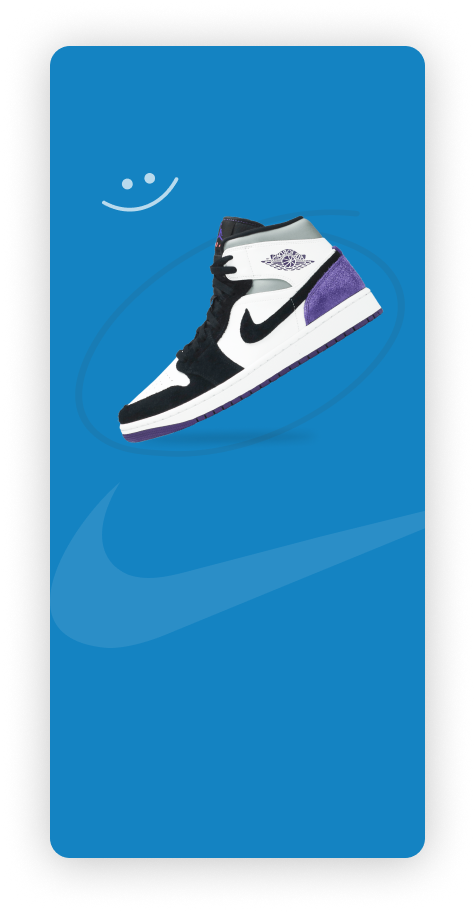
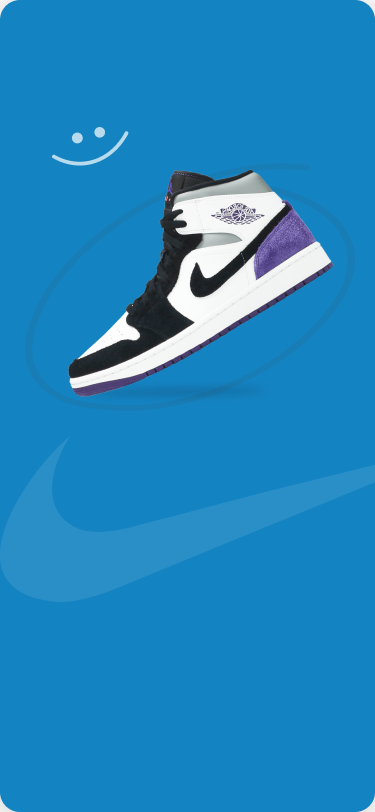
on Boarding screen 3 completed and add them to App Router

diff --git a/lib/app/views/screens/onBoarding_Screens/widgets/OnBoarding_Screen3Body copy.dart b/lib/app/views/screens/onBoarding_Screens/widgets/OnBoarding_Screen3Body copy.dart
@@ -4,8 +4,8 @@ import 'package:nike_store_app/app/core/styles/App_Image.dart';
 import 'package:nike_store_app/app/core/styles/text_Style.dart';
 import 'package:nike_store_app/app/views/widgets/customMainButton.dart';
 
-class OnBoardingScreen2Body extends StatelessWidget {
-  const OnBoardingScreen2Body({Key? key}) : super(key: key);
+class OnBoardingScreen3Body extends StatelessWidget {
+  const OnBoardingScreen3Body({Key? key}) : super(key: key);
 
   @override
   Widget build(BuildContext context) {
@@ -13,7 +13,7 @@ class OnBoardingScreen2Body extends StatelessWidget {
       child: Stack(
         children: [
           Image.asset(
-            AppImages.imagesOnboard2,
+            AppImages.imagesOnboard3,
             fit: BoxFit.cover,
           ),
           Positioned(
@@ -21,7 +21,7 @@ class OnBoardingScreen2Body extends StatelessWidget {
             left: 45.w,
             child: SizedBox(
               width: 300.w,
-              child: Text("Let's Start Journey With Nike",
+              child: Text("You Have the Power To",
                   textAlign: TextAlign.center,
                   style: Txtstyle.style34(context: context)
                       .copyWith(fontWeight: FontWeight.bold)),
@@ -31,8 +31,9 @@ class OnBoardingScreen2Body extends StatelessWidget {
             bottom: 230.h,
             left: 45.w,
             child: SizedBox(
-              width: 300.w,
-              child: Text("Smart, Gorgeous & Fashionable Collection Explor Now",
+              width: 350.w,
+              child: Text(
+                  "There Are Many Beautiful And Attractive Plants To Your Room",
                   textAlign: TextAlign.center,
                   style: Txtstyle.style16(context: context)
                       .copyWith(color: Colors.white.withOpacity(0.7))),

diff --git a/lib/app/router/app_router.dart b/lib/app/router/app_router.dart
@@ -1,14 +1,36 @@
+import 'package:flutter/material.dart';
 import 'package:go_router/go_router.dart';
+import 'package:nike_store_app/app/views/screens/onBoarding_Screens/onBoarding_Screen1.dart';
+import 'package:nike_store_app/app/views/screens/onBoarding_Screens/onBoarding_Screen2.dart';
+import 'package:nike_store_app/app/views/screens/onBoarding_Screens/onBoarding_Screen3%20copy.dart';
 import '../views/widgets/DotcontrollerOnBoarding.dart';
 
 abstract class Approuter {
-  static const onboarding = "/";
+  static const pageview = "/";
+  static const onboarding1 = "/onboarding1";
+  static const onboarding2 = "/onboarding2";
+  static const onboarding3 = "/onboarding3";
 
   static final router = GoRouter(
     routes: [
       GoRoute(
-        path: '/',
+        path: pageview,
         builder: (context, state) => DotcontrollerOnBoarding(),
+      ),
+      GoRoute(
+        path: onboarding1,
+        builder: (context, state) =>
+            OnBoardingScreen1(controller: state.extra as PageController),
+      ),
+      GoRoute(
+        path: onboarding2,
+        builder: (context, state) =>
+            OnBoardingScreen2(controller: state.extra as PageController),
+      ),
+      GoRoute(
+        path: onboarding3,
+        builder: (context, state) =>
+            OnBoardingScreen3(controller: state.extra as PageController),
       ),
     ],
   );

diff --git a/lib/app/views/widgets/DotcontrollerOnBoarding.dart b/lib/app/views/widgets/DotcontrollerOnBoarding.dart
@@ -5,6 +5,7 @@ import 'package:nike_store_app/app/views/screens/onBoarding_Screens/onBoarding_S
 import 'package:smooth_page_indicator/smooth_page_indicator.dart';
 
 import '../screens/onBoarding_Screens/onBoarding_Screen2.dart';
+import '../screens/onBoarding_Screens/onBoarding_Screen3 copy.dart';
 
 class DotcontrollerOnBoarding extends StatelessWidget {
   DotcontrollerOnBoarding({super.key});
@@ -21,9 +22,9 @@ class DotcontrollerOnBoarding extends StatelessWidget {
                 child: PageView(
                   controller: controller,
                   children: [
-                    OnBoardingScreen2(controller: controller),
                     OnBoardingScreen1(controller: controller),
-                    OnBoardingScreen1(controller: controller)
+                    OnBoardingScreen2(controller: controller),
+                    OnBoardingScreen3(controller: controller)
                   ],
                 ),
               ),

diff --git a/lib/app/views/screens/onBoarding_Screens/widgets/OnBoarding_Screen1Body.dart b/lib/app/views/screens/onBoarding_Screens/widgets/OnBoarding_Screen1Body.dart
@@ -17,8 +17,8 @@ class OnBoardingScreen1Body extends StatelessWidget {
             fit: BoxFit.cover,
           ),
           Positioned(
-            bottom: 655.h,
-            left: 77.w,
+            bottom: 645.h,
+            left: 70.w,
             child: SizedBox(
               width: 220.w,
               child: Text("WELLCOM TO NIKE",
@@ -28,7 +28,7 @@ class OnBoardingScreen1Body extends StatelessWidget {
             ),
           ),
           Positioned(
-              left: 10.w,
+              left: 18.w,
               bottom: 60.h,
               child: CustomMainButton(
                 color: Colors.white,

diff --git a/lib/app/views/screens/onBoarding_Screens/onBoarding_Screen3 copy.dart b/lib/app/views/screens/onBoarding_Screens/onBoarding_Screen3 copy.dart
@@ -1,0 +1,18 @@
+import 'package:flutter/material.dart';
+import 'package:nike_store_app/app/core/styles/App_Colors.dart';
+import 'widgets/OnBoarding_Screen3Body copy.dart';
+
+// ignore: camel_case_types
+class OnBoardingScreen3 extends StatelessWidget {
+  const OnBoardingScreen3({
+    super.key,
+    required this.controller,
+  });
+  final PageController controller;
+  @override
+  Widget build(BuildContext context) {
+    return const Scaffold(
+        backgroundColor: AppColors.kSecondaryColor,
+        body: OnBoardingScreen3Body());
+  }
+}

diff --git a/lib/app/views/widgets/customMainButton.dart b/lib/app/views/widgets/customMainButton.dart
@@ -10,7 +10,7 @@ class CustomMainButton extends StatelessWidget {
     required this.txt,
     this.onPressed,
     required this.color,
-    this.width = 350,
+    this.width = 335,
   });
 
   final String txt;
